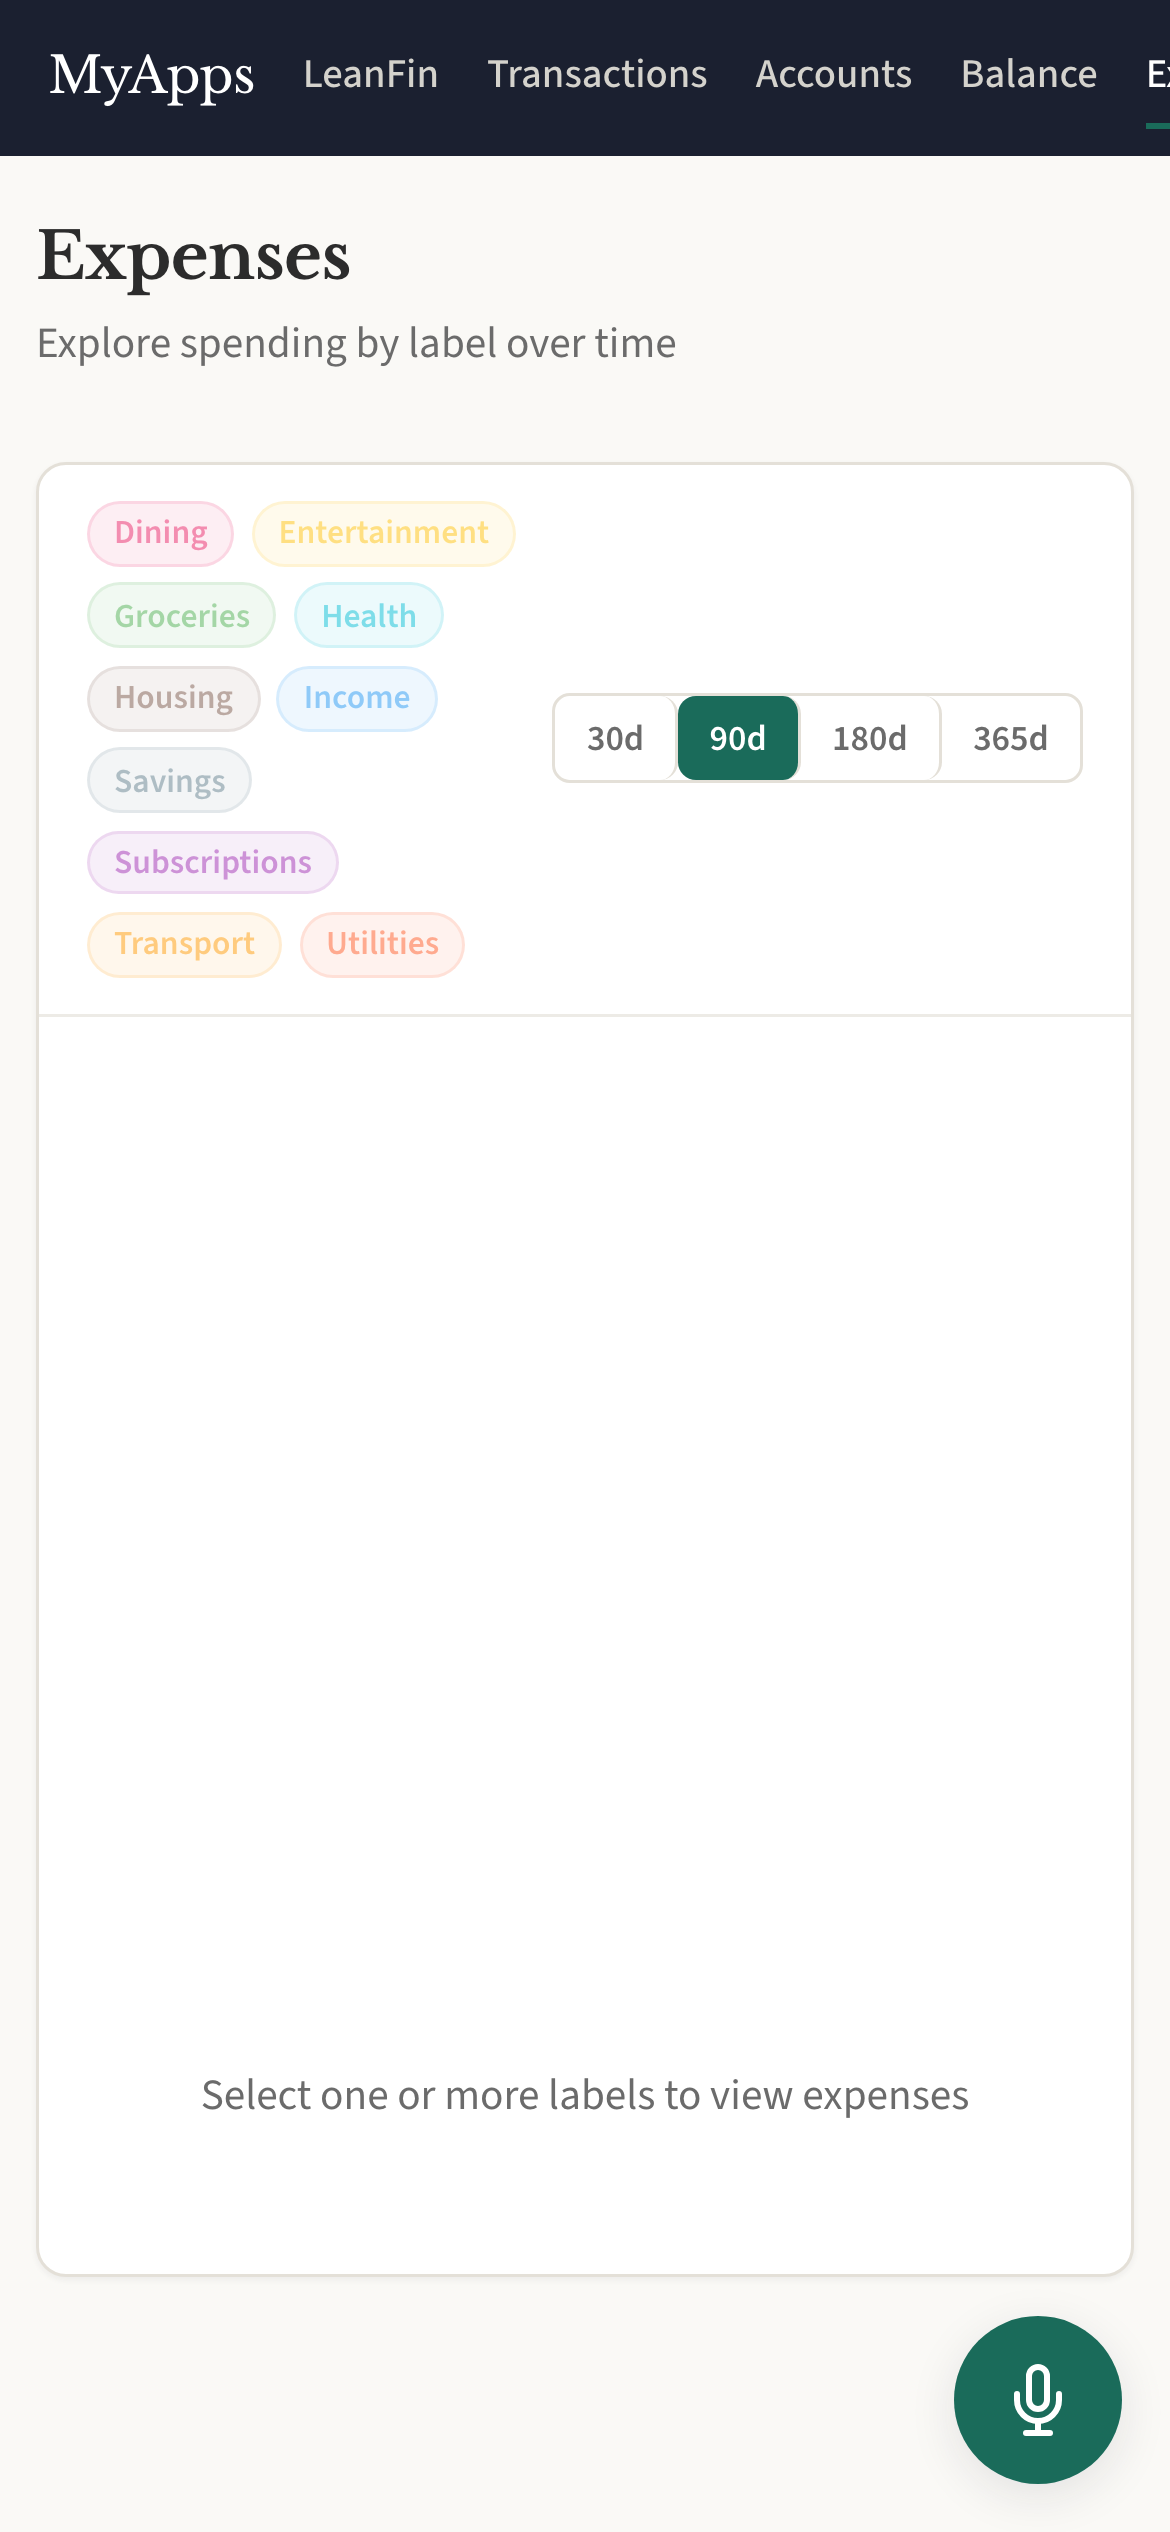
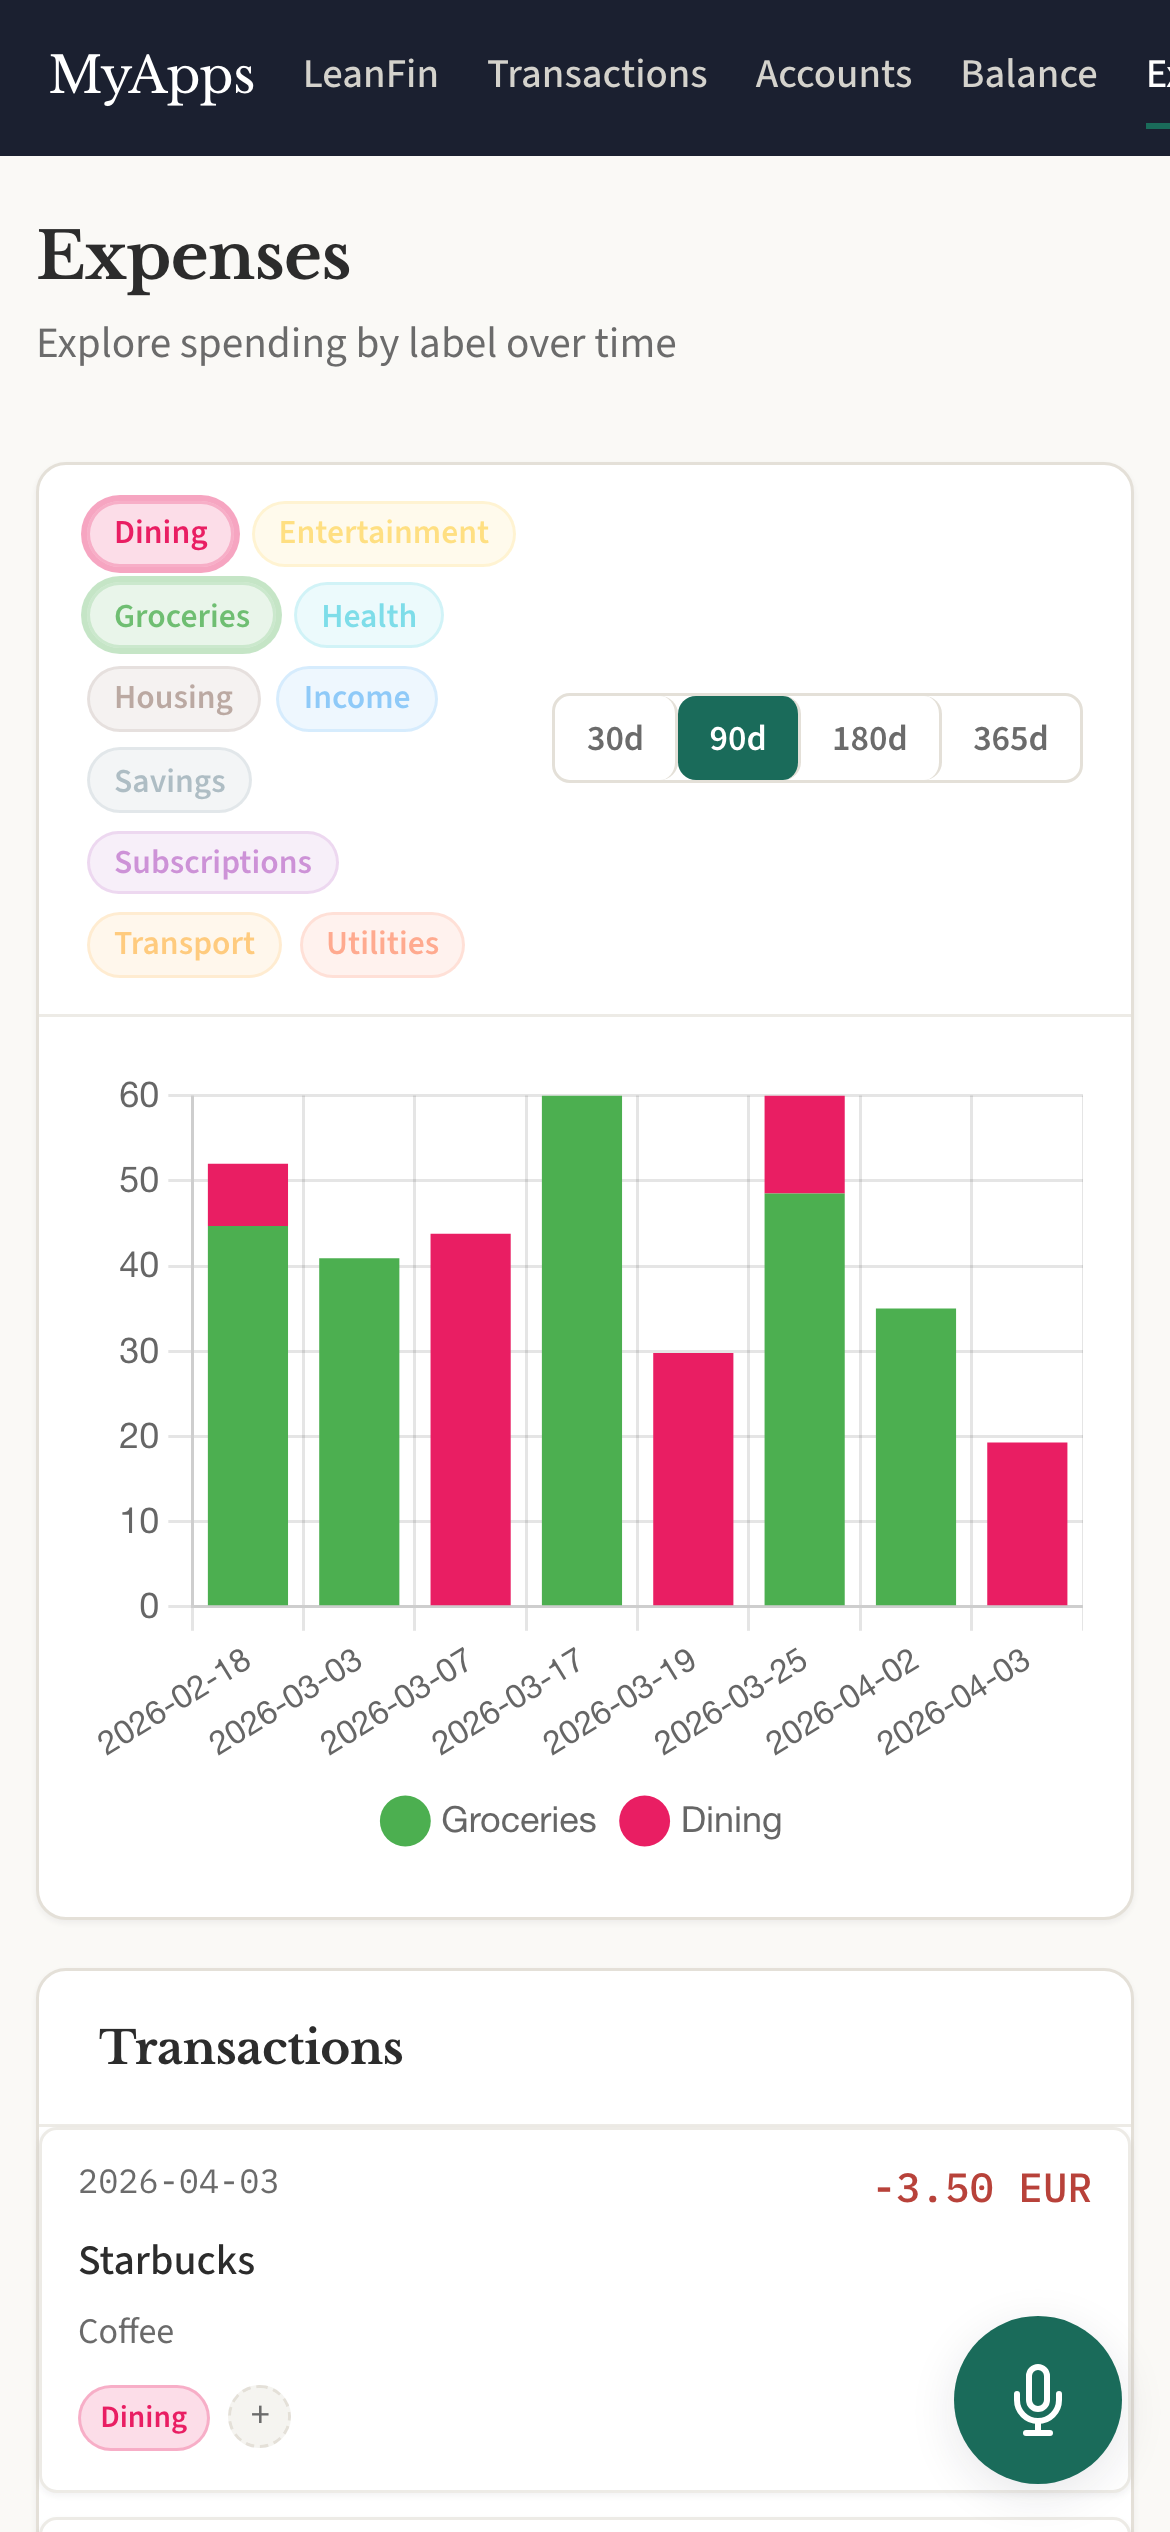
Select labels in expenses screenshot so chart is visible

diff --git a/scripts/screenshots.ts b/scripts/screenshots.ts
@@ -68,7 +68,11 @@ test.describe("README screenshots", () => {
     await snap(page, "leanfin-balance");
 
     await page.goto(`${BASE_URL}/leanfin/expenses`);
-    await page.waitForTimeout(1000);
+    // Select a couple of labels so the chart is visible in the screenshot.
+    const pills = page.locator(".label-pill");
+    await pills.nth(0).click();
+    await pills.nth(2).click();
+    await page.waitForTimeout(1500);
     await snap(page, "leanfin-expenses");
 
     await page.goto(`${BASE_URL}/leanfin/labels`);
